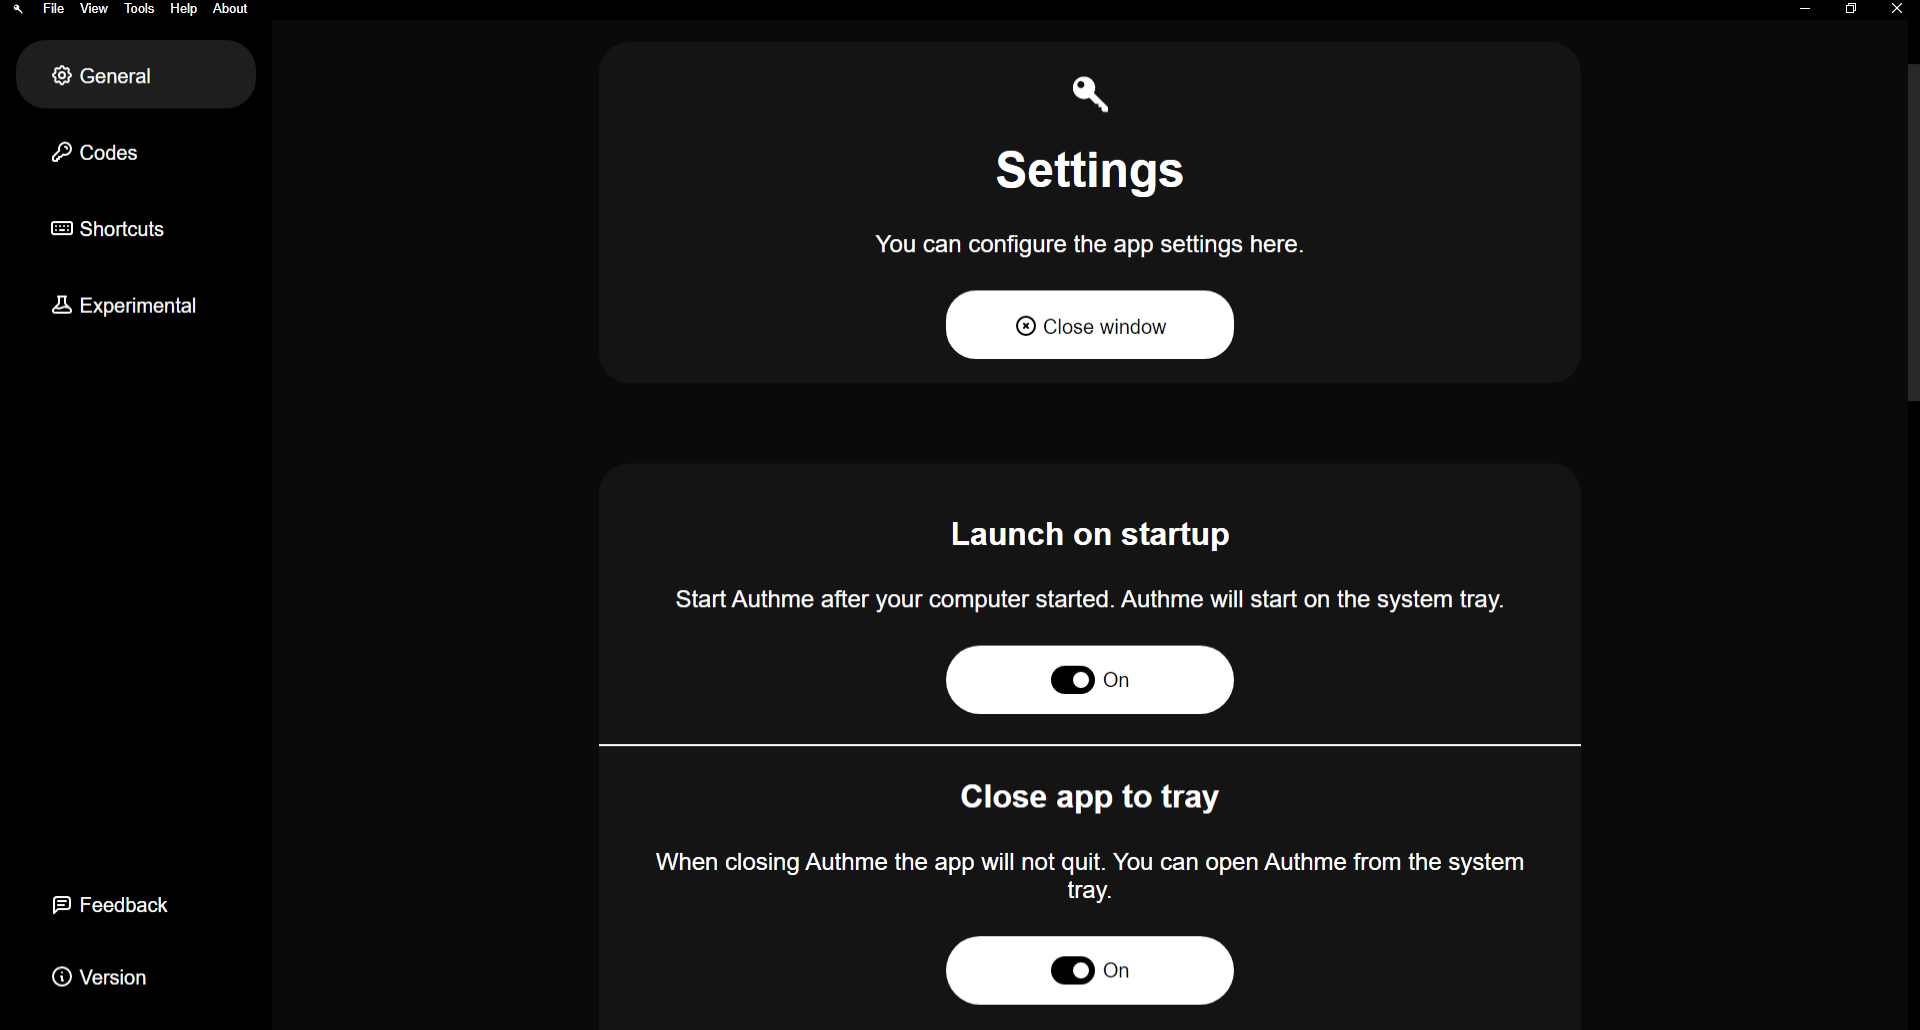
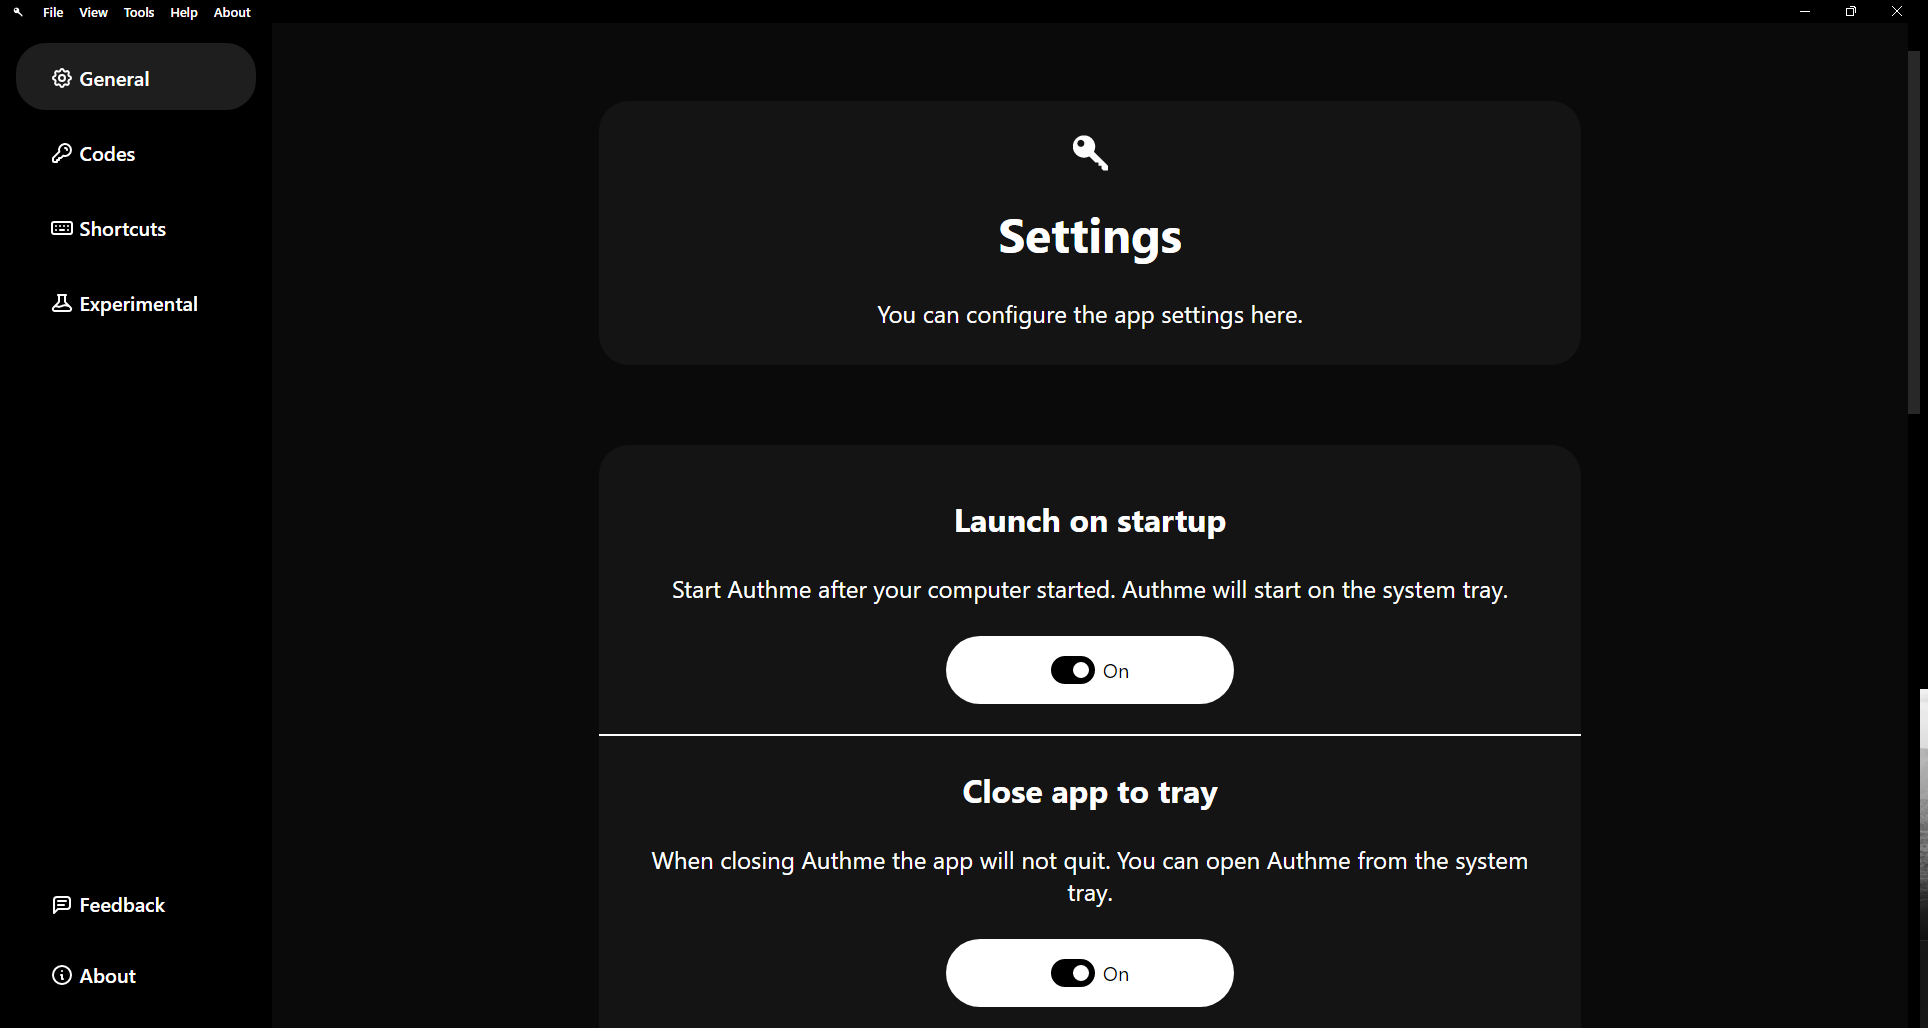
Update screenshots and translations

diff --git a/languages/hu.js b/languages/hu.js
@@ -33,7 +33,7 @@ module.exports = {
         "about": "Névjegy",
         "show_licenses": "Licenszek",
         "update": "Frissítés",
-        "info": "Verzió",
+        "info": "Authme Névjegye",
     },
 
 	"dialog": {
@@ -161,7 +161,7 @@ module.exports = {
 		"Gyorsgombok",
 		"Kísérletek",
 		"Visszajelzés",
-		"Verzió",
+		"Névjegy",
 		"Beállítások",
 		"Itt tudod szerkeszteni a beállításokat.",
 		"Autómatikus indítás",

diff --git a/app/settings/index.html b/app/settings/index.html
@@ -74,7 +74,7 @@
 							<svg xmlns="http://www.w3.org/2000/svg" class="h-6 w-6" fill="none" viewBox="0 0 24 24" stroke="currentColor">
 								<path stroke-linecap="round" stroke-linejoin="round" stroke-width="2" d="M13 16h-1v-4h-1m1-4h.01M21 12a9 9 0 11-18 0 9 9 0 0118 0z" />
 							</svg>
-							<span data-loc>Version</span>
+							<span data-loc>About</span>
 						</button>
 					</div>
 				</div>

diff --git a/languages/en.js b/languages/en.js
@@ -33,7 +33,7 @@ module.exports = {
 		"about": "About",
 		"show_licenses": "Licenses",
 		"update": "Update",
-		"info": "Version",
+		"info": "About Authme",
 	},
 
 	"dialog": {
@@ -161,7 +161,7 @@ module.exports = {
 		"Shortcuts",
 		"Experimental",
 		"Feedback",
-		"Version",
+		"About",
 		"Settings",
 		"You can configure the app settings here.",
 		"Launch on startup",
